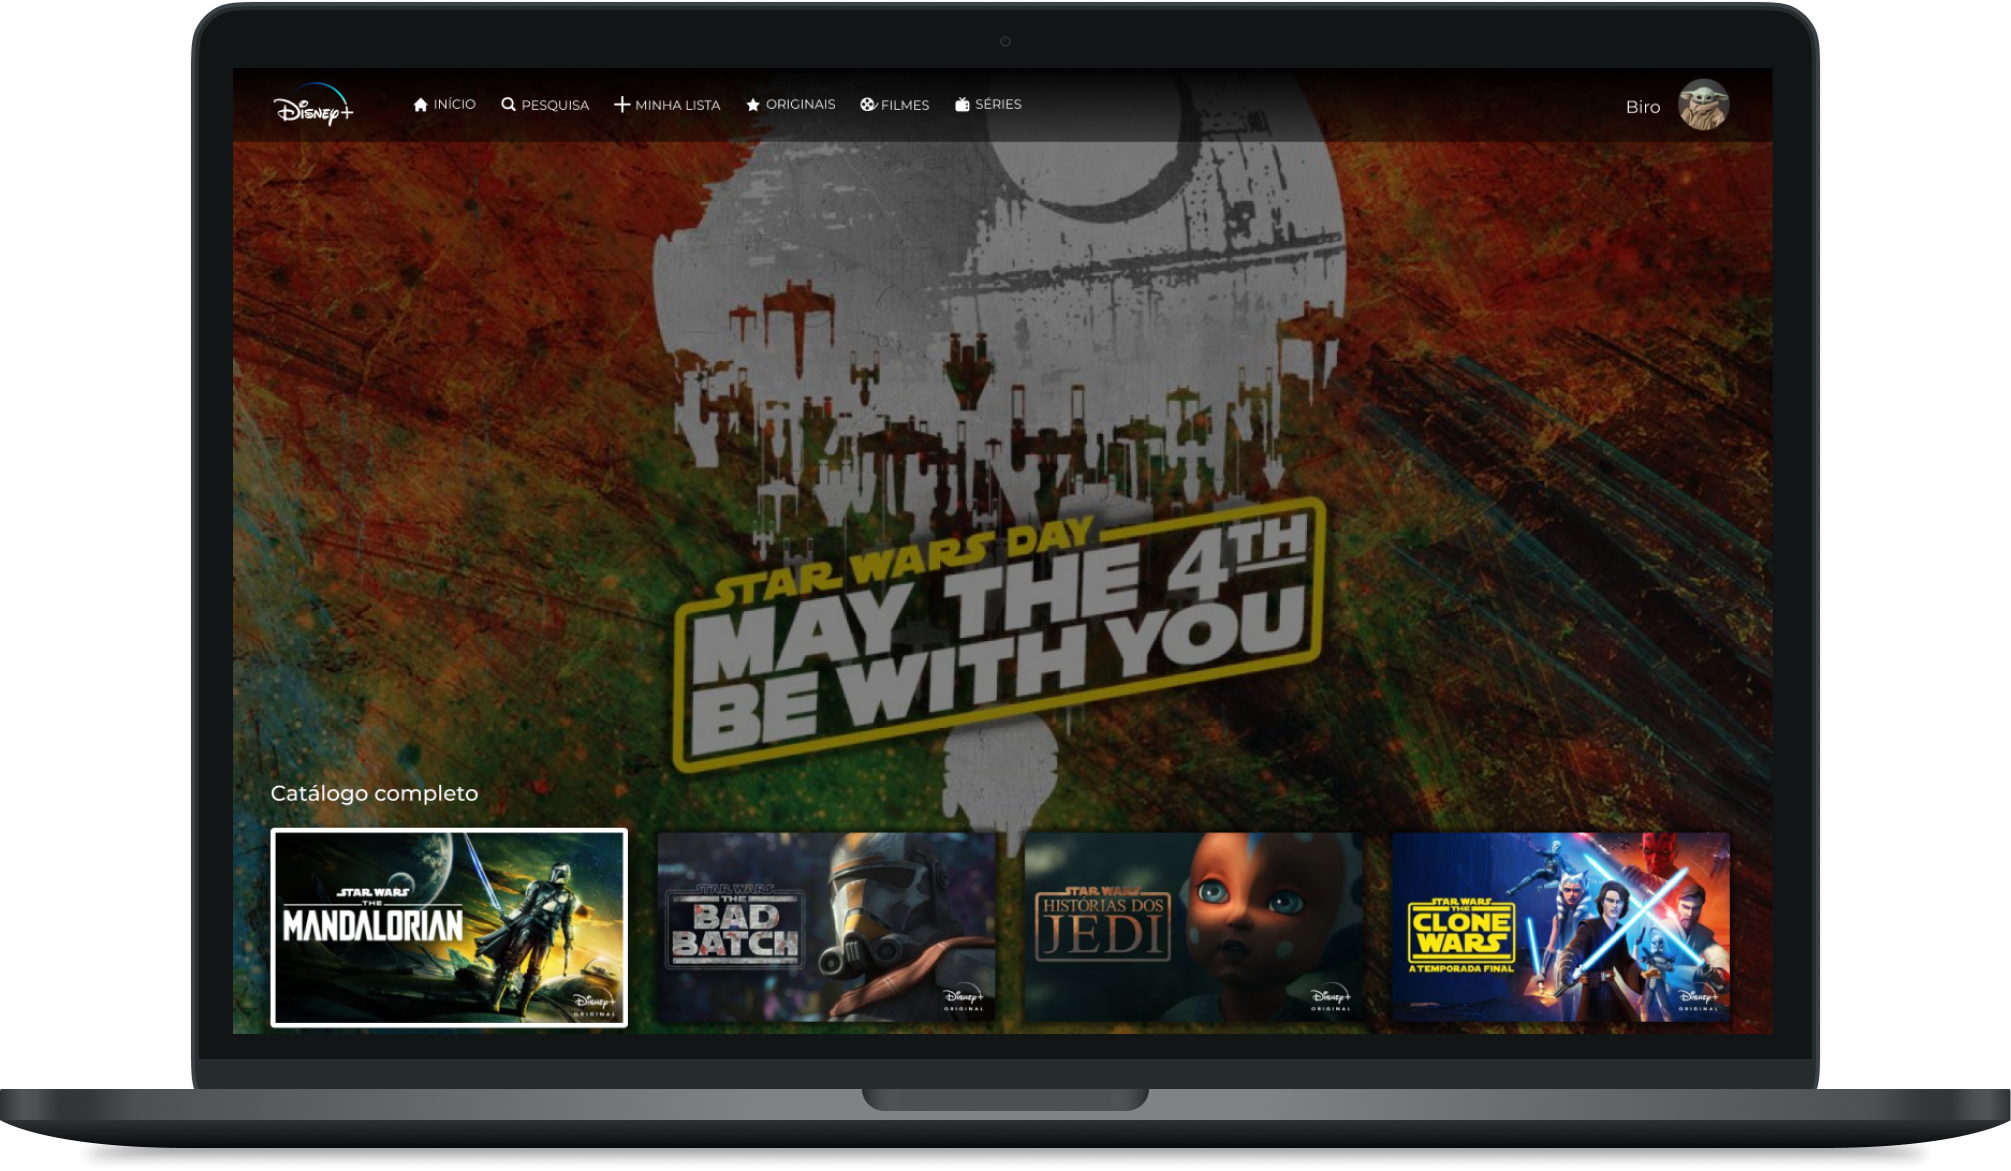
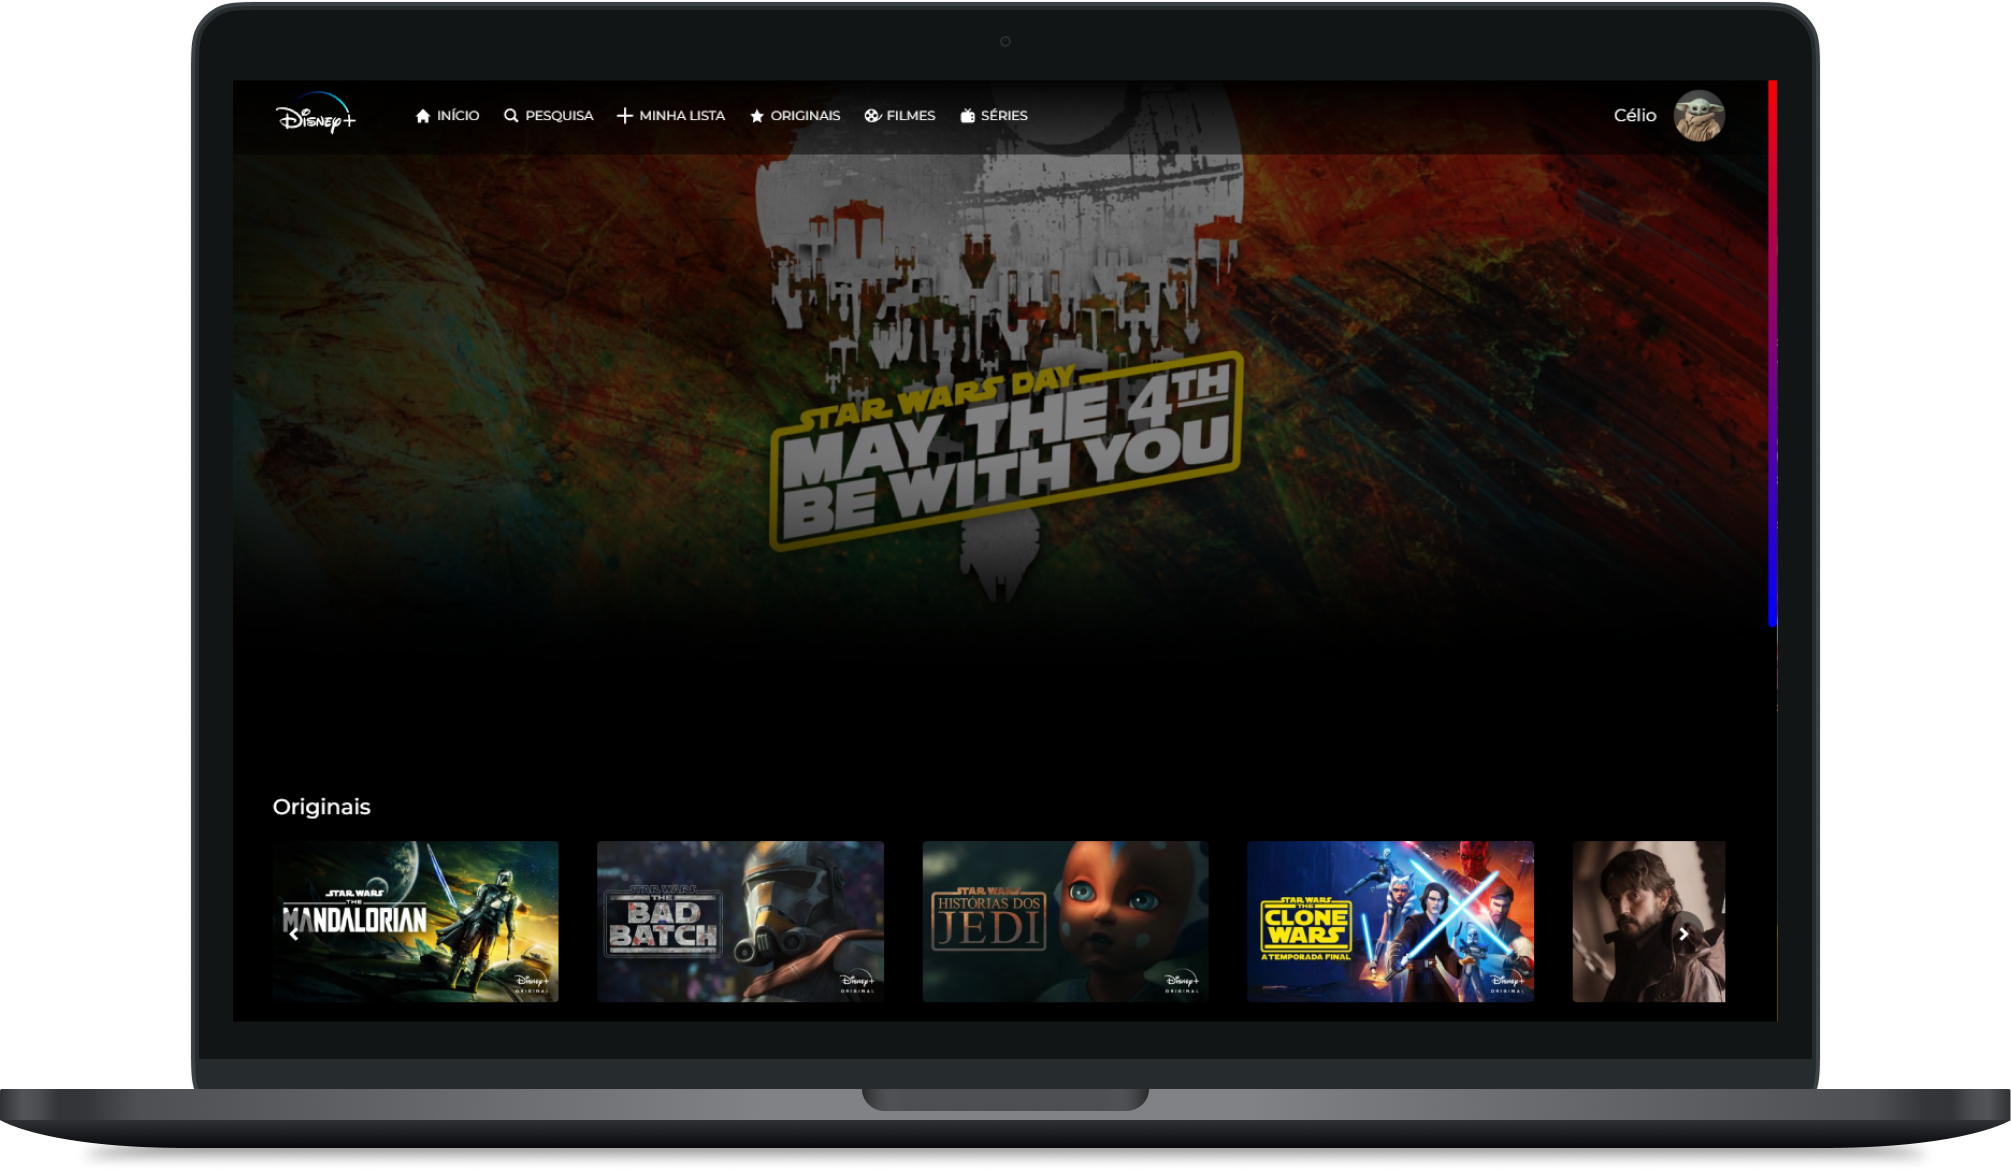
Project finish

diff --git a/index.html b/index.html
@@ -67,101 +67,112 @@
         <div>
           <h3 class="title">Originais</h3>
         </div>
-        <div class="gallery">
-          <div class="card">
-            <img src="./assets/images/covers/cover1.jpeg" alt="" />
+        <div class="carousel" id="carousel1">
+          <div class="carousel-inner gallery">
+            <div class="carousel-item card">
+              <img src="./assets/images/covers/cover1.jpeg" alt="" />
+            </div>
+            <div class="carousel-item card">
+              <img src="./assets/images/covers/cover5.jpeg" alt="" />
+            </div>
+            <div class="carousel-item card">
+              <img src="./assets/images/covers/cover2.jpeg" alt="" />
+            </div>
+            <div class="carousel-item card">
+              <img src="./assets/images/covers/cover0.jpeg" alt="" />
+            </div>
+            <div class="carousel-item card">
+              <img src="./assets/images/covers/cover16.jpeg" alt="" />
+            </div>
+            <div class="carousel-item card">
+              <img src="./assets/images/covers/cover17.jpeg" alt="" />
+            </div>
+            <div class="carousel-item card">
+              <img src="./assets/images/covers/cover23.jpeg" alt="" />
+            </div>
+            <div class="carousel-item card">
+              <img src="./assets/images/covers/cover24.jpeg" alt="" />
+            </div>
+            <div class="carousel-item card">
+              <img src="./assets/images/covers/cover60.jpeg" alt="" />
+            </div>
           </div>
-          <div class="card">
-            <img src="./assets/images/covers/cover5.jpeg" alt="" />
-          </div>
-          <div class="card">
-            <img src="./assets/images/covers/cover2.jpeg" alt="" />
-          </div>
-          <div class="card">
-            <img src="./assets/images/covers/cover0.jpeg" alt="" />
-          </div>
-          <div class="card">
-            <img src="./assets/images/covers/cover16.jpeg" alt="" />
-          </div>
+          <button class="carousel-prev"></button>
+          <button class="carousel-next"></button>
         </div>
       </div>
+
       <div class="mandalorian">
         <div>
           <h3 class="title">The Mandalorian</h3>
         </div>
-        <div class="gallery">
-          <div class="card">
-            <img src="./assets/images/covers/cover27.jpeg" alt="" />
+        <div class="carousel" id="carousel2">
+          <div class="carousel-inner gallery">
+            <div class="carousel-item card">
+              <img src="./assets/images/covers/cover27.jpeg" alt="" />
+            </div>
+            <div class="carousel-item card">
+              <img src="./assets/images/covers/cover28.jpeg" alt="" />
+            </div>
+            <div class="carousel-item card">
+              <img src="./assets/images/covers/cover29.jpeg" alt="" />
+            </div>
+            <div class="carousel-item card">
+              <img src="./assets/images/covers/cover32.jpeg" alt="" />
+            </div>
+            <div class="carousel-item card">
+              <img src="./assets/images/covers/cover33.jpeg" alt="" />
+            </div>
+            <div class="carousel-item card">
+              <img src="./assets/images/covers/cover38.jpeg" alt="" />
+            </div>
+            <div class="carousel-item card">
+              <img src="./assets/images/covers/cover37.jpeg" alt="" />
+            </div>
+            <div class="carousel-item card">
+              <img src="./assets/images/covers/cover34.jpeg" alt="" />
+            </div>
+            <div class="carousel-item card">
+              <img src="./assets/images/covers/cover36.jpeg" alt="" />
+            </div>
           </div>
-          <div class="card">
-            <img src="./assets/images/covers/cover28.jpeg" alt="" />
-          </div>
-          <div class="card">
-            <img src="./assets/images/covers/cover29.jpeg" alt="" />
-          </div>
-          <div class="card">
-            <img src="./assets/images/covers/cover32.jpeg" alt="" />
-          </div>
-          <div class="card">
-            <img src="./assets/images/covers/cover33.jpeg" alt="" />
-          </div>
+          <button class="carousel-prev"></button>
+          <button class="carousel-next"></button>
         </div>
       </div>
+
       <div class="ahsoka">
         <div>
           <h3 class="title">Ahsoka Tano: Episódios Essenciais</h3>
         </div>
-        <div class="gallery">
-          <div class="card">
-            <img src="./assets/images/covers/cover8.jpeg" alt="" />
-          </div>
-          <div class="card">
-            <img src="./assets/images/covers/cover39.jpeg" alt="" />
-          </div>
-          <div class="card">
-            <img src="./assets/images/covers/cover40.jpeg" alt="" />
-          </div>
-          <div class="card">
-            <img src="./assets/images/covers/cover42.jpeg" alt="" />
-          </div>
-          <div class="card">
-            <img src="./assets/images/covers/cover43.jpeg" alt="" />
-          </div>
-        </div>
-      </div>
-
-      <div class="Filmes">
-        <div>
-          <h3 class="title">Filmes</h3>
-        </div>
         <div class="carousel" id="carousel3">
           <div class="carousel-inner gallery">
             <div class="carousel-item card">
-              <img src="./assets/images/covers/cover12.jpeg" alt="" />
+              <img src="./assets/images/covers/cover8.jpeg" alt="" />
             </div>
             <div class="carousel-item card">
-              <img src="./assets/images/covers/cover13.jpeg" alt="" />
+              <img src="./assets/images/covers/cover39.jpeg" alt="" />
             </div>
             <div class="carousel-item card">
-              <img src="./assets/images/covers/cover52.jpeg" alt="" />
+              <img src="./assets/images/covers/cover40.jpeg" alt="" />
             </div>
             <div class="carousel-item card">
-              <img src="./assets/images/covers/cover51.jpeg" alt="" />
+              <img src="./assets/images/covers/cover42.jpeg" alt="" />
             </div>
             <div class="carousel-item card">
-              <img src="./assets/images/covers/cover53.jpeg" alt="" />
+              <img src="./assets/images/covers/cover43.jpeg" alt="" />
             </div>
             <div class="carousel-item card">
-              <img src="./assets/images/covers/cover53.jpeg" alt="" />
+              <img src="./assets/images/covers/cover44.jpeg" alt="" />
             </div>
             <div class="carousel-item card">
-              <img src="./assets/images/covers/cover53.jpeg" alt="" />
+              <img src="./assets/images/covers/cover45.jpeg" alt="" />
             </div>
             <div class="carousel-item card">
-              <img src="./assets/images/covers/cover53.jpeg" alt="" />
+              <img src="./assets/images/covers/cover49.jpeg" alt="" />
             </div>
             <div class="carousel-item card">
-              <img src="./assets/images/covers/cover53.jpeg" alt="" />
+              <img src="./assets/images/covers/cover50.jpeg" alt="" />
             </div>
           </div>
           <button class="carousel-prev"></button>
@@ -192,16 +203,16 @@
               <img src="./assets/images/covers/cover53.jpeg" alt="" />
             </div>
             <div class="carousel-item card">
-              <img src="./assets/images/covers/cover53.jpeg" alt="" />
+              <img src="./assets/images/covers/cover54.jpeg" alt="" />
             </div>
             <div class="carousel-item card">
-              <img src="./assets/images/covers/cover53.jpeg" alt="" />
+              <img src="./assets/images/covers/cover55.jpeg" alt="" />
             </div>
             <div class="carousel-item card">
-              <img src="./assets/images/covers/cover53.jpeg" alt="" />
+              <img src="./assets/images/covers/cover56.jpeg" alt="" />
             </div>
             <div class="carousel-item card">
-              <img src="./assets/images/covers/cover53.jpeg" alt="" />
+              <img src="./assets/images/covers/cover61.jpeg" alt="" />
             </div>
           </div>
           <button class="carousel-prev"></button>

diff --git a/style.css b/style.css
@@ -77,7 +77,7 @@ video {
 
 main {
   margin-top: 595px;
-  padding: 0 40px;
+  padding: 0 40px 0 20px;
 }
 .title {
   padding: 0 20px;
@@ -90,6 +90,7 @@ main {
   grid-template-columns: repeat(5, 1fr);
   gap: 36px;
   margin: 20px 0 40px;
+  padding: 0 20px;
 }
 
 .card {
@@ -143,11 +144,6 @@ main {
 
 .carousel-item {
   flex: 0 0 20%;
-  margin-right: 15px;
-}
-
-.carousel-item img {
-  width: 100%;
 }
 
 .carousel-prev,
@@ -164,10 +160,50 @@ main {
   font-size: 20px;
 }
 
+.carousel-prev::before,
+.carousel-next::before {
+  content: "";
+  display: inline-block;
+  border: solid white;
+  border-width: 0 3px 3px 0;
+  padding: 3px;
+  transform: rotate(-45deg);
+  -webkit-transform: rotate(-45deg);
+  -ms-transform: rotate(-45deg);
+}
+
 .carousel-prev {
   left: 20px;
 }
 
+.carousel-prev::before {
+  margin-left: -2px;
+}
+
 .carousel-next {
   right: 20px;
+}
+
+.carousel-prev::before {
+  margin-left: 2px;
+  transform: rotate(135deg);
+  -webkit-transform: rotate(135deg);
+  -ms-transform: rotate(135deg);
+}
+
+.carousel-next::before {
+  margin-left: -2px;
+  transform: rotate(-45deg);
+  -webkit-transform: rotate(-45deg);
+  -ms-transform: rotate(-45deg);
+}
+.carousel-prev:hover,
+.carousel-next:hover {
+  cursor: pointer;
+  background-color: rgba(0, 0, 0, 0.7);
+}
+
+.carousel-prev:focus,
+.carousel-next:focus {
+  outline: none;
 }

diff --git a/main.js b/main.js
@@ -40,8 +40,12 @@ function createCarousel(carouselEl) {
 }
 
 // Use a função para criar cada carrossel individual
-const carousel1 = document.querySelector("#carousel3");
+const carousel1 = document.querySelector("#carousel1");
+createCarousel(carousel1);
+const carousel2 = document.querySelector("#carousel2");
+createCarousel(carousel2);
+const carousel3 = document.querySelector("#carousel3");
 createCarousel(carousel3);
 
-const carousel2 = document.querySelector("#carousel4");
+const carousel4 = document.querySelector("#carousel4");
 createCarousel(carousel4);
